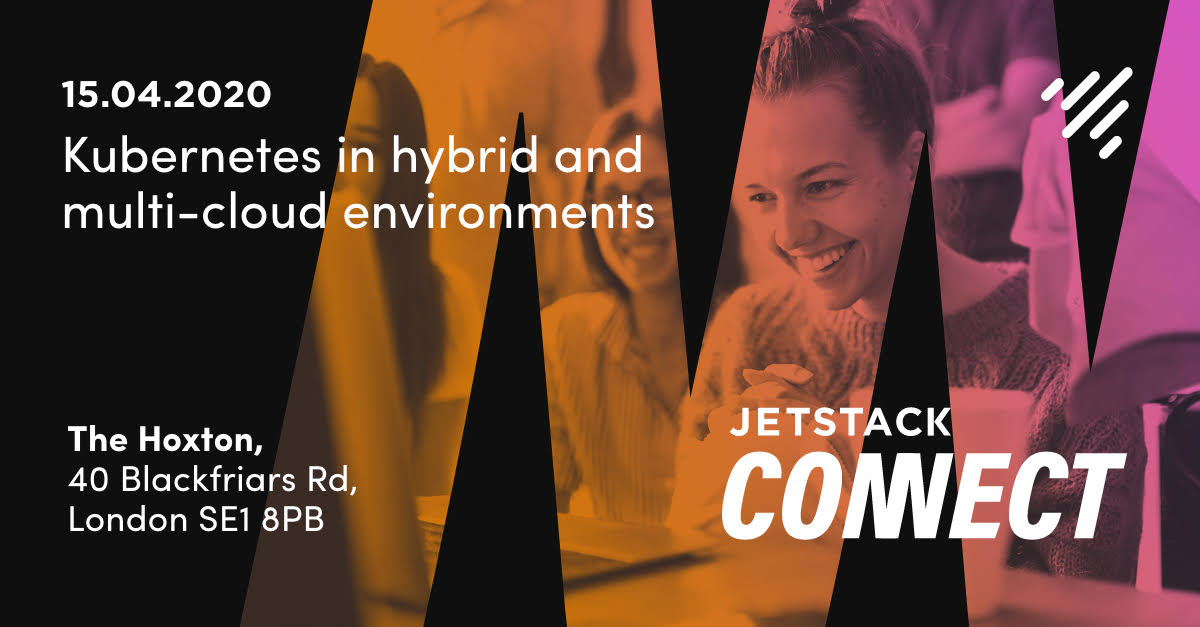
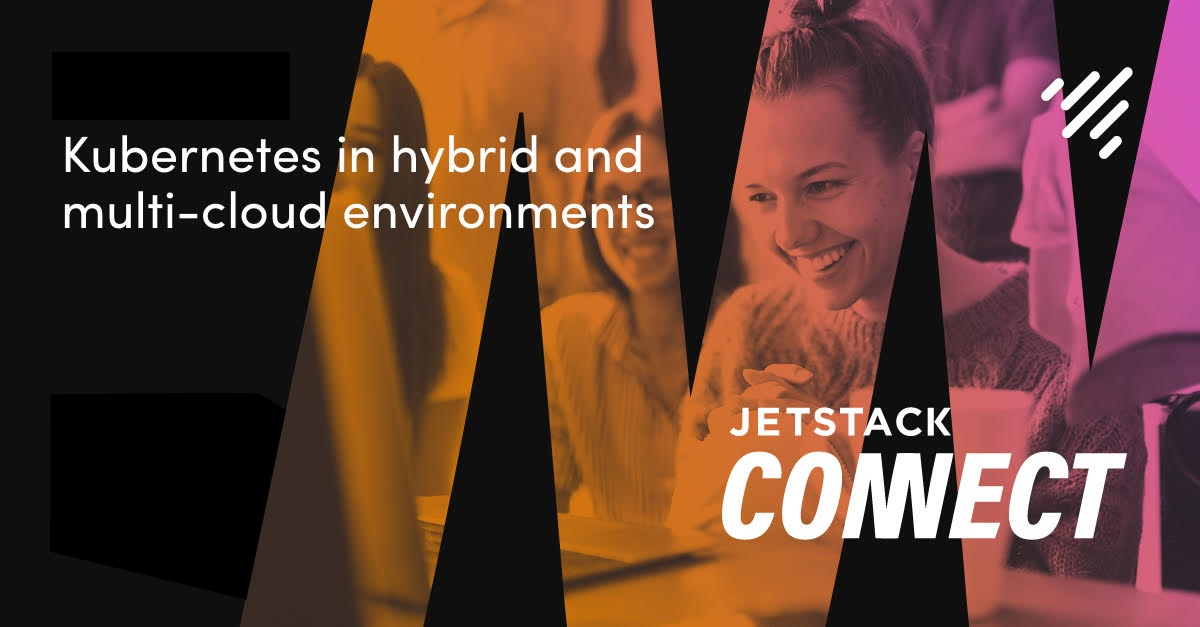
Revise connect details

Changed region(s): [[0.0308, 0.6667, 0.3083, 0.8485], [0.0308, 0.1212, 0.2467, 0.1818]]

diff --git a/layouts/events/single.html b/layouts/events/single.html
@@ -34,14 +34,18 @@
                 <th>Date</th>
                 <td>{{ .Params.event_date }}</td>
               </tr>
-              <tr>
-                <th>Start Time</th>
-                <td>{{ .Params.start_time }}</td>
-              </tr>
-              <tr>
-                <th>End Time</th>
-                <td>{{ .Params.end_time }}</td>
-              </tr>
+              {{ if .Params.start_time }}
+                <tr>
+                  <th>Start Time</th>
+                  <td>{{ .Params.start_time }}</td>
+                </tr>
+              {{ end }}
+              {{ if .Params.end_time }}
+                <tr>
+                  <th>End Time</th>
+                  <td>{{ .Params.end_time }}</td>
+                </tr>
+              {{ end }}
             {{ end }}
           </table>
 

diff --git a/content/events/connect-apr-2020.md b/content/events/connect-apr-2020.md
@@ -1,12 +1,10 @@
 ---
 title: Kubernetes in Hybrid and Multi-Cloud Environments
 image: /events/connect-apr-2020/thumbnail.jpg
-address: "The Hoxton, Blackfriars Rd, South Bank, London SE1 8NY"
-event_date: "April 15th 2020"
+address: "Remote Event"
+event_date: "29th May 2020"
 link: /events/connect-apr-2020
 timestamp: "20200325"
-start_time: "1:00pm"
-end_time: "5:00pm"
 aliases: [/events/connect-mar-2020]
 eventbrite_id: 91594578851
 ---
@@ -25,15 +23,6 @@ Whether it's running on-premises or in a cloud environment, Kubernetes provides 
 
 Common abstractions atop of Kubernetes such as Istio are providing further capabilities to secure, observe and manage our environments and workloads. Coupled with hybrid solutions, multi-mesh architectures can enable communication between federated meshes and organisational boundaries, further bridging the gap between segregated clusters of compute.
 
-**Agenda:**
-
-* 1.00pm: Arrive - tea/coffee, networking
-* 1.30pm: Introduction and Welcome from Jetstack 
-* 2.00pm: 'Running Enterprise workloads in Hybrid Kubernetes & Multi Mesh topologies' by Paul Jones, Jetstack / Q & A
-* 2.45pm: 'TBC' by Nick Perry, William Hill / Q & A
-* 3.30pm: Short Break
-* 3.45pm: 'Unconference' Breakout sessions 
-* 4.30pm: Presenting back 
-* 5.00pm: Drinks & networking in the bar
+**Agenda:** TBC
 
 Please register now to reserve your place!
